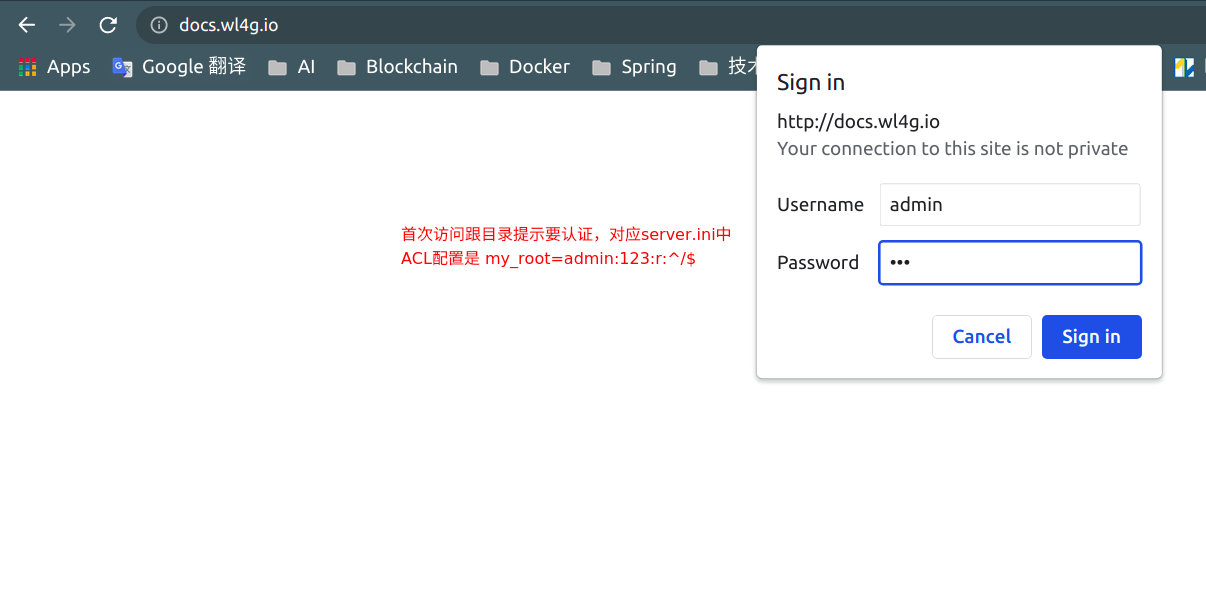
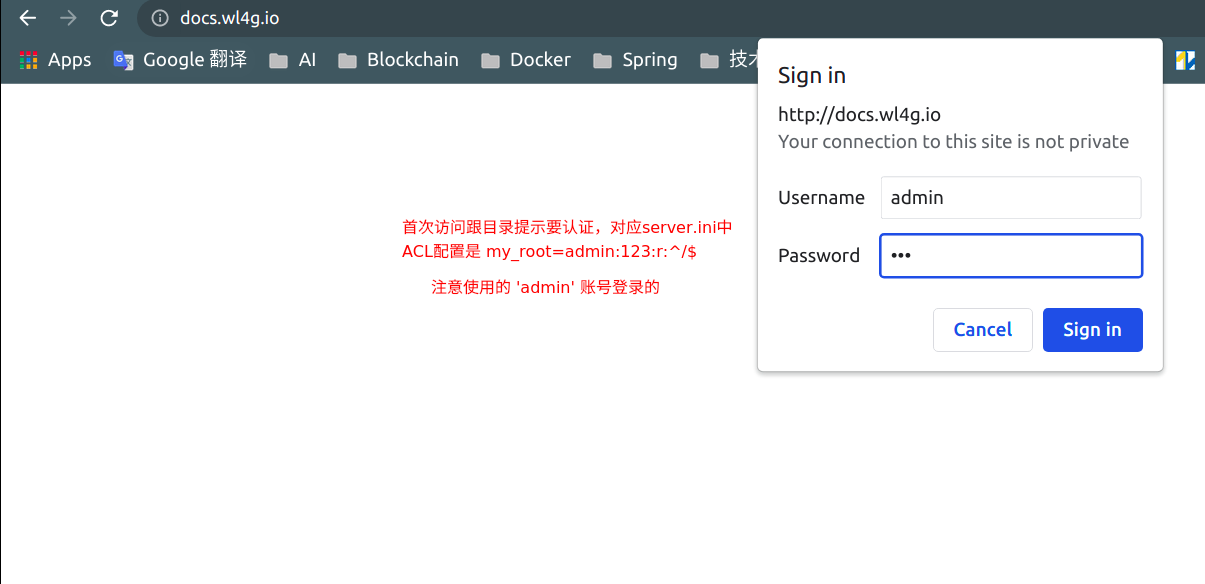
fix: README

diff --git a/README.md b/README.md
@@ -89,3 +89,8 @@ cd simple_httpfs/
 |[fs.data].data_dir | string | &lt;work_dir&gt; | /mnt/disk1/httpfs | The directory where the actual files of HttpFS. |
 
 - If you need to use https, you can use openssl self-signed certificate: `openssl req -new -x509 -keyout ./httpfs_server.pem -out ./httpfs_server.pem -days 365 -nodes -subj "/C=/ST=/O=/OU=/CN="`
+
+- Notice: The matching priority of multiple rules in the same username is in order, for example:
+
+  - `my_root_files=admin:123:r:^/(\S+)\.(.+)$` &nbsp;&nbsp;&nbsp;&nbsp; (matched)
+  - `my_root=admin:123:r:^/$` &nbsp;&nbsp;&nbsp;&nbsp;  (ignore)
